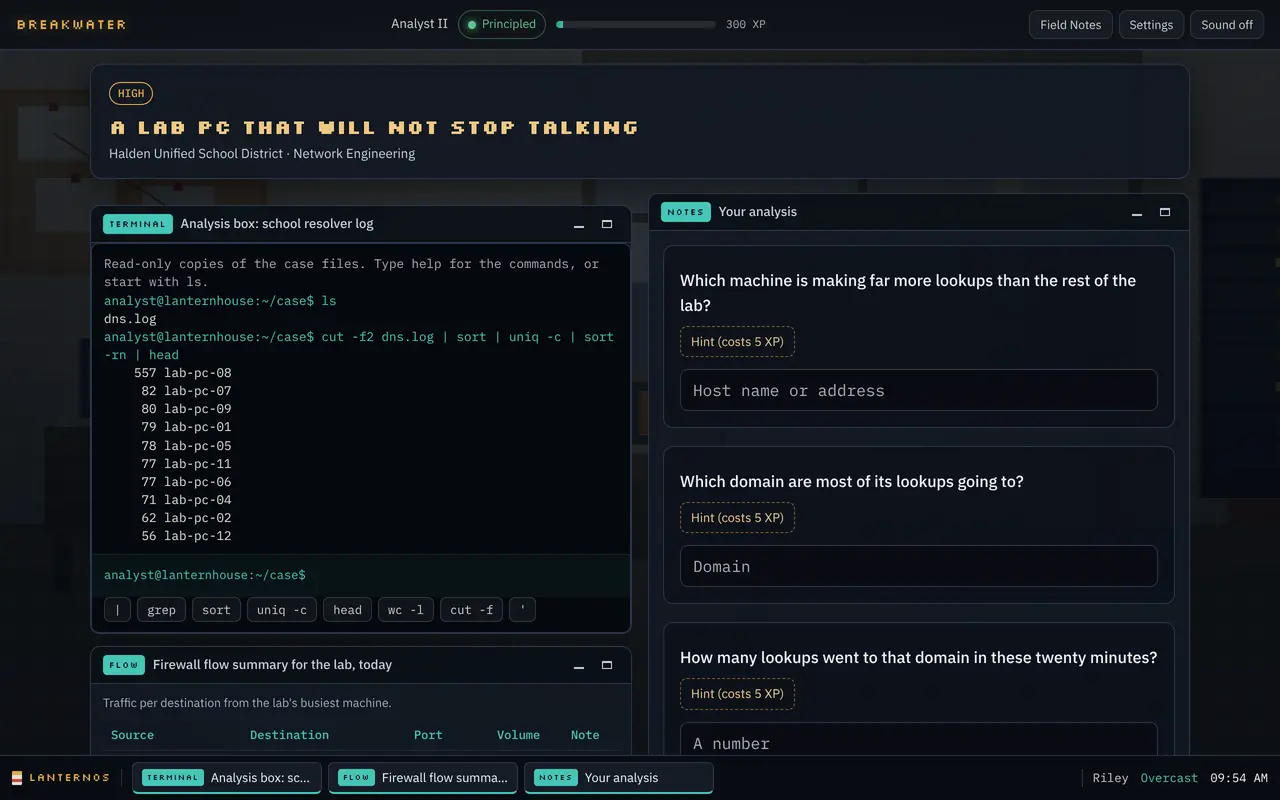
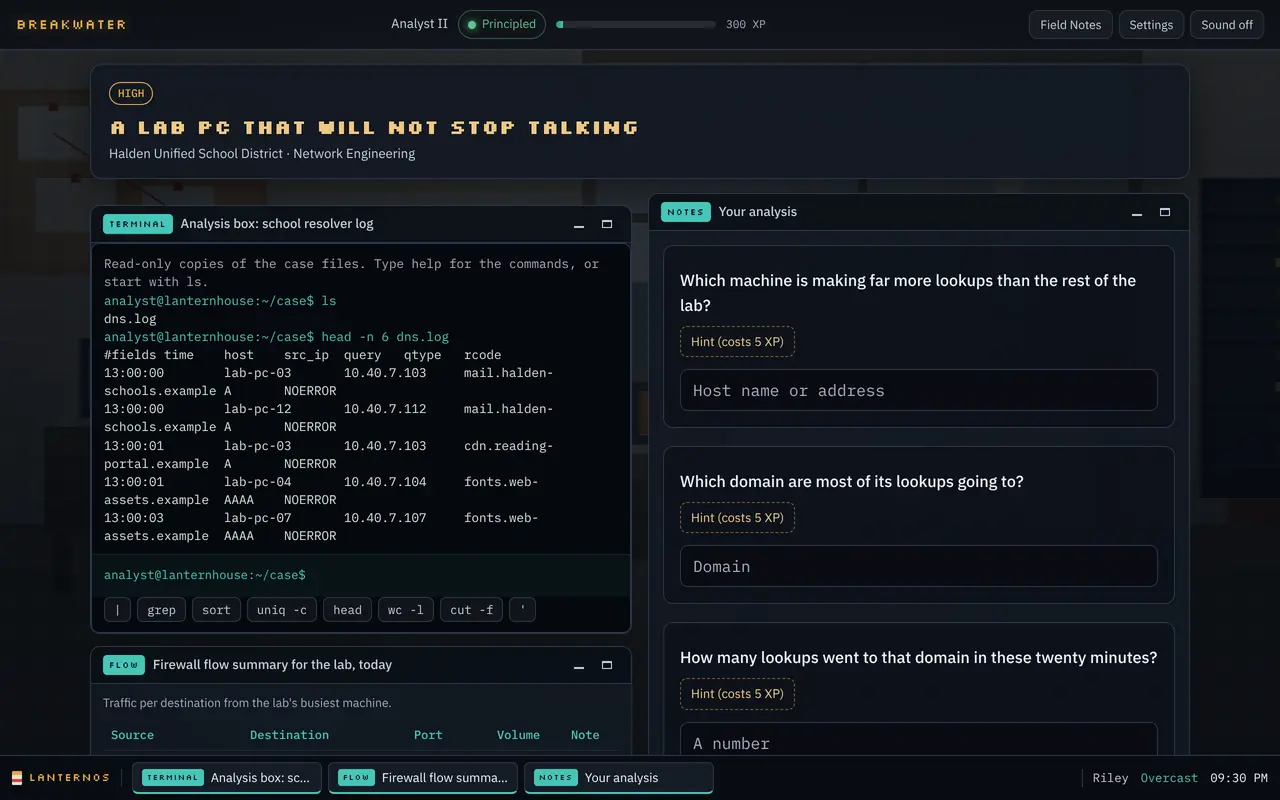
Retake the Breakwater desktop screenshot without the solved case (#4)
The screenshot showed the command that solves the case and its answer. It now shows the terminal reading the file, and the caption no longer says how the case is worked.

Changed region(s): [[0.0625, 0.4062, 0.4375, 0.6875], [0.375, 0.5, 0.4375, 0.5625], [0.375, 0.5938, 0.4062, 0.6562]]

diff --git a/index.html b/index.html
@@ -415,7 +415,7 @@ a:focus-visible,button:focus-visible,input:focus-visible,textarea:focus-visible{
       <div class="shots">
         <button type="button" class="shot" data-caption="The main menu - a breakwater holds the storm back so the harbor stays calm."><img src="assets/screenshots/breakwater/menu.webp" alt="Breakwater main menu over the pixel-art office" loading="lazy"></button>
         <button type="button" class="shot" data-caption="The office - your screen opens the tickets, the corkboard holds your field notes, and your team lead works at the next desk."><img src="assets/screenshots/breakwater/office.webp" alt="The Lanternhouse office in chapter one, with clickable desk and corkboard" loading="lazy"></button>
-        <button type="button" class="shot" data-caption="Working a case - evidence opens as windows on an in-game desktop, here a terminal counting DNS lookups per machine."><img src="assets/screenshots/breakwater/desktop.webp" alt="In-game desktop with a terminal window, a firewall flow table and analysis questions" loading="lazy"></button>
+        <button type="button" class="shot" data-caption="Working a case - evidence opens as windows on an in-game desktop, here a terminal on the case files."><img src="assets/screenshots/breakwater/desktop.webp" alt="In-game desktop with a terminal window, a firewall flow table and analysis questions" loading="lazy"></button>
         <button type="button" class="shot" data-caption="Chapter five - the storm blackout, lit by the monitors and a red emergency beacon."><img src="assets/screenshots/breakwater/storm.webp" alt="The office during the chapter five storm, dark and lit red" loading="lazy"></button>
       </div>
       <a class="go" href="https://github.com/CyberAhmedX/BREAKWATER/releases/latest" target="_blank" rel="noopener">Download the game →</a>
